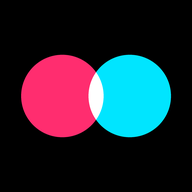
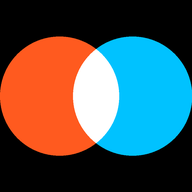
feat(design): mark colors — magenta/cyan → orange/azure ("Cinema")
The old beam pair read as visually adjacent to another app's mark before
it read as Venn's. Replaced with orange/azure, the actual complementary
color grade used on theatrical posters and DCPs — on-theme for a
movie-night app rather than a borrowed palette. Additive-light overlap
and every contrast pair recomputed and verified; see docs/DECISIONS.md.

Claude-Session: https://claude.ai/code/session_01SaFEYXBwy5UwQBgdBuU4oz

diff --git a/app/globals.css b/app/globals.css
@@ -11,11 +11,16 @@
  * with `mix-blend-mode: plus-lighter`, so where the two circles cross the GPU
  * adds them channel-wise and clamps:
  *
- *     #FF2D6F + #00E5FF = (255, 274->255, 366->255) = #FFFFFF
+ *     #FF5A1F + #00C2FF = (255, 284->255, 286->255) = #FFFFFF
  *
  * Pure white, exactly. There is no third hex anywhere in this file for the
  * overlap, because the overlap is not a color choice -- it is what happens
  * when you shine both beams at the same spot. See components/venn-mark.tsx.
+ *
+ * Orange + azure is the actual complementary color grade used on theatrical
+ * posters and DCPs (warm skin tones pushed toward orange, shadows toward
+ * teal) -- chosen over the original magenta/cyan pair, which read as another
+ * app's mark before it read as this one's.
  *
  * There is no light mode. Every ratio below is computed against #000000, and
  * a white-ground variant of "projector light in a dark room" would be a
@@ -25,15 +30,16 @@
  * actually renders; see docs/DECISIONS.md):
  *
  *   on #000000      fg 21.00  fg-dim 6.48  fg-faint 5.31
- *                   beam-a 5.86   beam-b 13.65   marquee 16.46
+ *                   beam-a 6.73   beam-b 10.16   marquee 16.46
  *   on #16161A      fg 18.04  fg-dim 5.57  fg-faint 4.56   <- the tightest
+ *                   beam-a 5.79   beam-b 8.73
  *
  * Two rules fall out of that, and both are load-bearing:
  *
  *   1. Every accent clears 4.5:1 on the ground, so an accent is allowed to
  *      carry meaning as text -- it is not restricted to decoration.
- *   2. Text on an accent FILL is always black. White on `--beam-a` is 3.59:1
- *      and fails AA; black on it is 5.86:1. `--on-beam` exists so that is a
+ *   2. Text on an accent FILL is always black. White on `--beam-a` is 3.12:1
+ *      and fails AA; black on it is 6.73:1. `--on-beam` exists so that is a
  *      token decision rather than a per-component judgement call.
  *
  * `--fg-faint` is #7F7F8A rather than a darker grey because #7A7A85 measured
@@ -51,8 +57,8 @@
   --fg-dim: #8e8e99;
   --fg-faint: #7f7f8a;
 
-  --beam-a: #ff2d6f;
-  --beam-b: #00e5ff;
+  --beam-a: #ff5a1f;
+  --beam-b: #00c2ff;
   --marquee: #ffe500;
   --on-beam: #000000;
 

diff --git a/app/global-error.tsx b/app/global-error.tsx
@@ -45,7 +45,7 @@ export default function GlobalError({
                 width: 31,
                 height: 31,
                 borderRadius: "50%",
-                background: "#FF2D6F",
+                background: "#FF5A1F",
                 mixBlendMode: "plus-lighter",
               }}
             />
@@ -56,7 +56,7 @@ export default function GlobalError({
                 width: 31,
                 height: 31,
                 borderRadius: "50%",
-                background: "#00E5FF",
+                background: "#00C2FF",
                 mixBlendMode: "plus-lighter",
               }}
             />

diff --git a/components/venn-mark.tsx b/components/venn-mark.tsx
@@ -4,7 +4,7 @@
 // `mix-blend-mode: plus-lighter`, which adds channel-wise and clamps, so where
 // they cross the GPU computes:
 //
-//     #FF2D6F + #00E5FF = (255, 274->255, 366->255) = #FFFFFF
+//     #FF5A1F + #00C2FF = (255, 284->255, 286->255) = #FFFFFF
 //
 // Pure white -- the blown-out center of two beams landing on the same spot.
 // The previous version faked its overlap with a clip-path and a hand-picked

diff --git a/docs/DECISIONS.md b/docs/DECISIONS.md
@@ -2472,3 +2472,69 @@ dashboard template and this system has already paid to not look like that.
 - **Optimistic UI** on the vote controls. `useTransition` disables them today;
   `useOptimistic` would let a vote land instantly and roll back on failure.
 - **View Transitions** — still flagged not-for-production by Next.
+
+---
+
+## Mark colors: magenta/cyan → orange/azure ("Cinema")
+
+The user flagged that `--beam-a`/`--beam-b` (magenta `#FF2D6F`, cyan `#00E5FF`)
+read as visually adjacent to another app's mark before they read as Venn's —
+two overlapping circles is already a common shorthand (compatibility apps,
+insurance comparisons, data-viz decks), so the specific hue pair was carrying
+more of the risk than the shape.
+
+Replaced with orange `#FF5A1F` / azure `#00C2FF` ("Cinema"). Chosen over two
+other computed candidates — gold/blue (`#FFB400`/`#0080FF`, rejected: too close
+to `--marquee`'s existing yellow, so the mark and the primary CTA would compete
+for "the important color") and violet/chartreuse (`#9B3FFF`/`#C8FF00`,
+rejected: boldest option but chartreuse skews toward a 90s-neon/toxic
+association, and violet cleared AA at only 4.55:1, the thinnest margin of the
+three) — presented to the user as a live HTML comparison (actual
+`mix-blend-mode: plus-lighter`, not swatches) before picking.
+
+Orange/azure is not an arbitrary substitution: it's the actual complementary
+color grade used on theatrical posters and DCPs (skin tones pushed warm,
+shadows pushed teal), so for a movie-night app it's a convention already in the
+subject's own world rather than a borrowed palette.
+
+**The additive-light proof still holds, with new numbers:**
+
+```
+#FF5A1F + #00C2FF = (255, 90+194->255, 31+255->255) = #FFFFFF
+```
+
+Verified two ways: sampled the actual rendered pixel at the mark's overlap
+(white, exactly), and sampled the regenerated PWA icons' center pixel the same
+way.
+
+**Contrast, recomputed, not assumed to transfer:**
+
+```
+on #000000      beam-a 6.73   beam-b 10.16
+on #16161A      beam-a 5.79   beam-b 8.73
+black on beam-a 6.73   (white on beam-a 3.12 — still fails AA, --on-beam stays black)
+```
+
+Every figure still clears 4.5:1; the "text on a fill is always black" rule from
+the original palette needed no change, just new numbers behind it.
+
+**Files touched:** `app/globals.css` (tokens + the file-header proof comment),
+`components/venn-mark.tsx` (the proof comment only — the component reads the
+CSS custom properties, so no logic changed), `app/global-error.tsx` (the two
+hardcoded hexes — this file can't reach the CSS tokens, since it replaces the
+root layout on the same failure path that would take `globals.css` down with
+it), and all six PWA icon PNGs, regenerated from the same geometry phase 7
+established (`circle = size × 0.62`, `offset = size × 0.19`, maskable variants
+at 0.7× scale centered in the full canvas) with the new beam colors baked in.
+`icon-monochrome.png` was left untouched — Android's themed-icon system reads
+only its alpha channel, so the fill color in that file was never load-bearing.
+
+### Verification
+
+1. `pnpm typecheck`, `pnpm lint` — clean.
+2. Overlap pixel sampled at (255, 255, 255) in both the live-rendered mark and
+   the regenerated icons, not eyeballed.
+3. All contrast pairs recomputed via script, not carried over from the old
+   palette on the assumption that "it's still an accent color, should be fine."
+4. Mark viewed live in the running app at header scale (26px) — the white lens
+   stays legible at the smallest in-app size, not just at icon scale.
